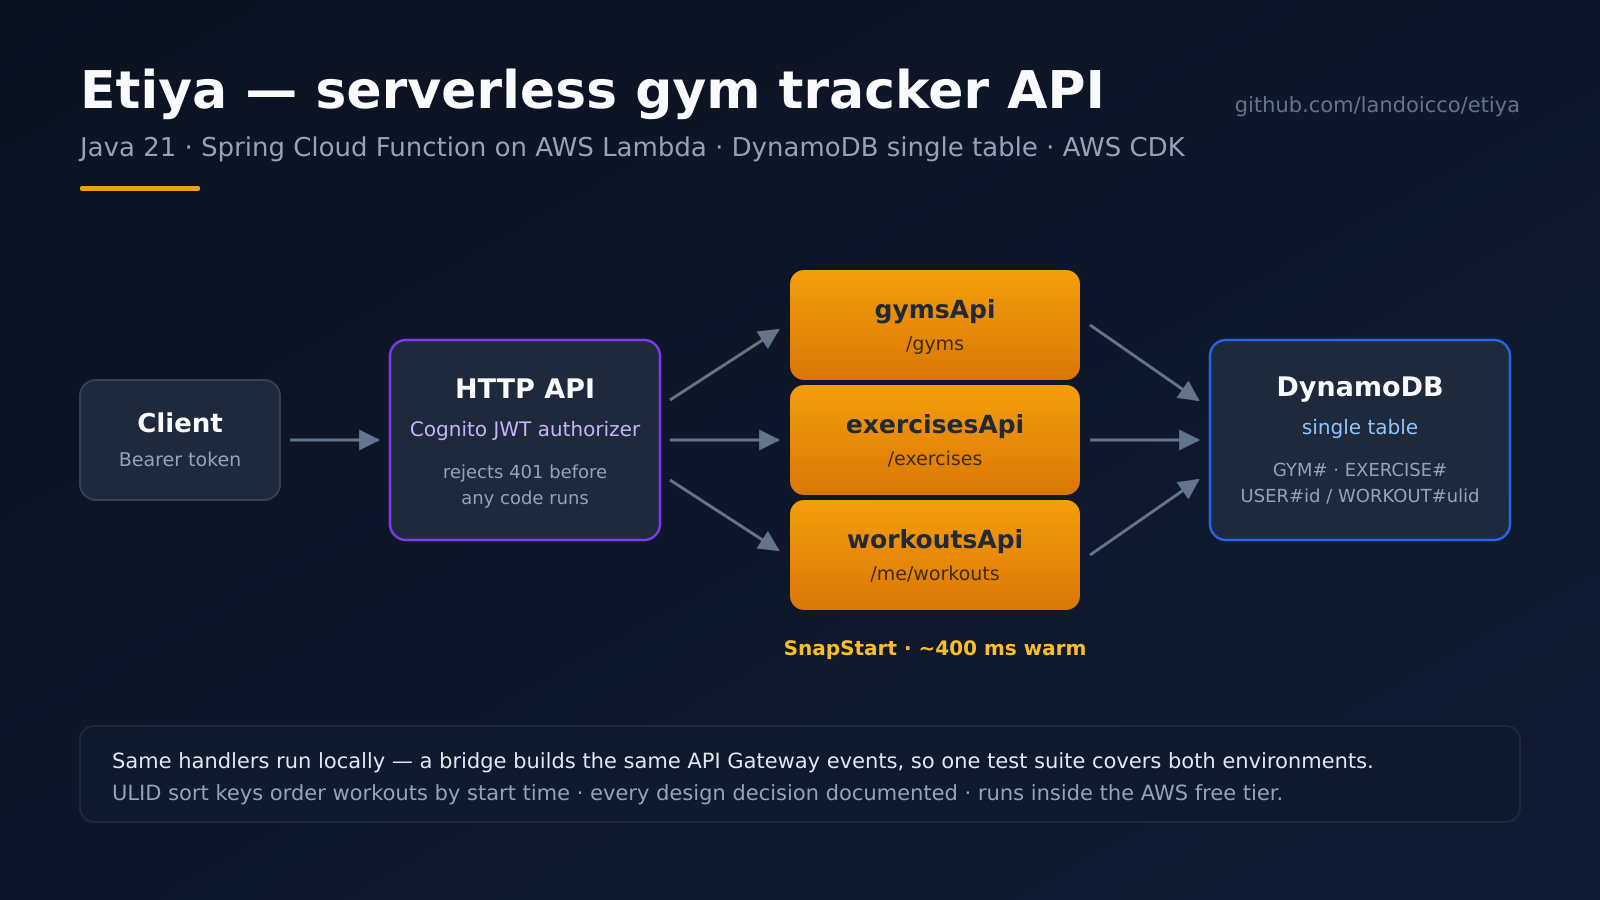
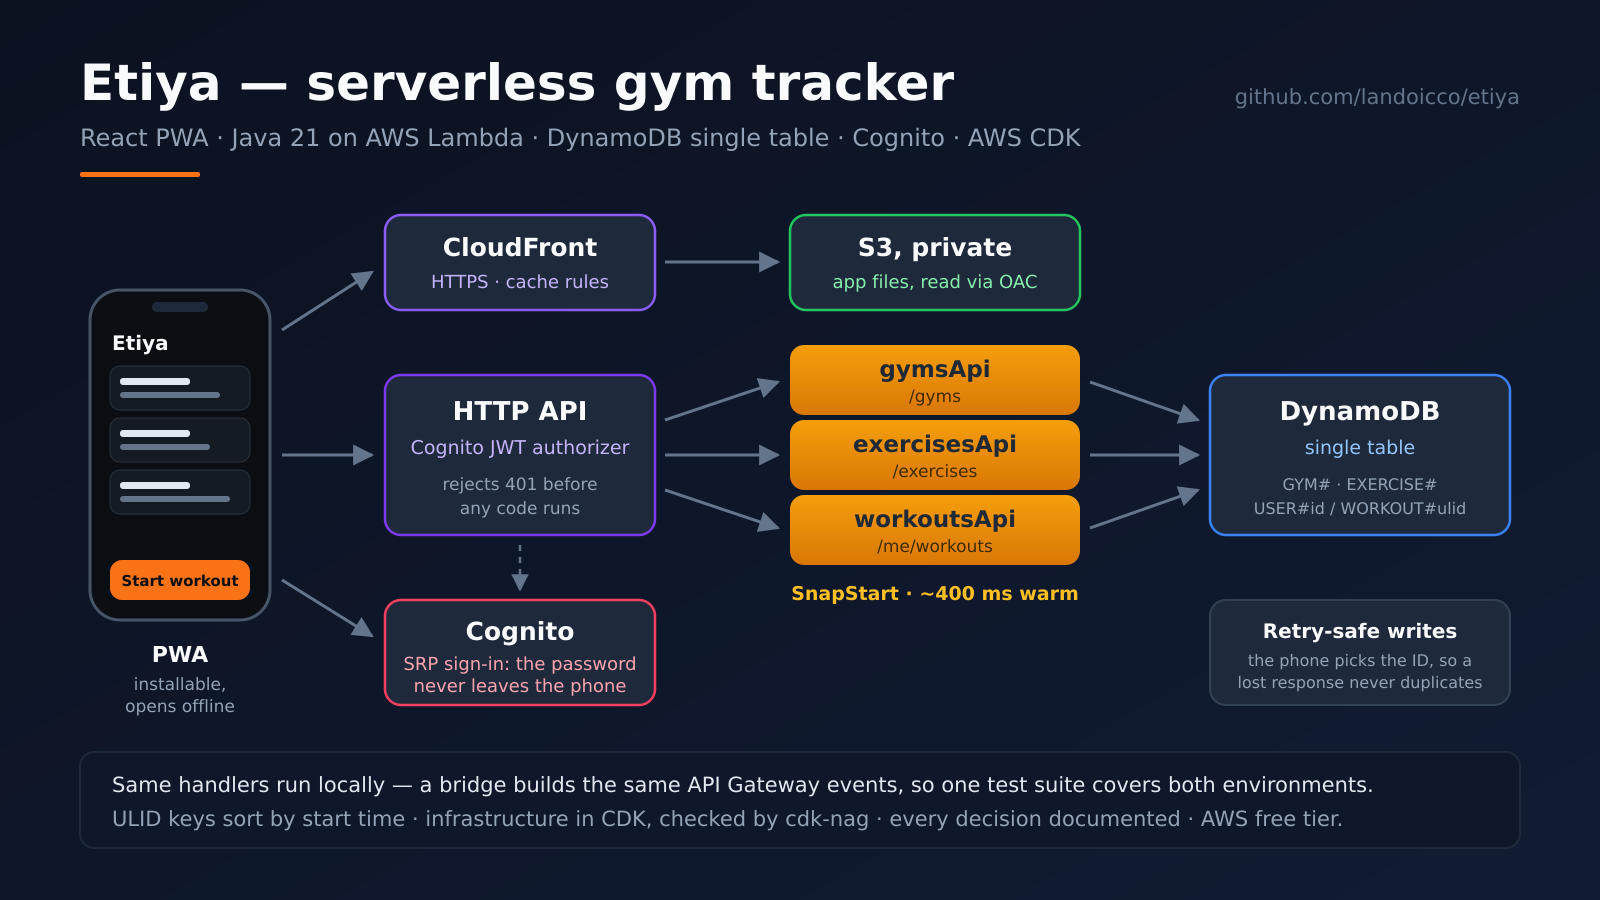
Docs explain retry-safe workout writes, social images updated  - API reference documents the optional id, 201 on the first attempt and 200 on a retry  - Data model shows how the client ID's random part is kept and its time stamped from startedAt  - Decisions cover why the ID is the idempotency key, 

diff --git a/docs/decisions.md b/docs/decisions.md
@@ -52,11 +52,17 @@ An earlier `aws/` package at the root was renamed: naming by provider broke the 
 
 See [the data model](data-model.md#workout-ids-are-ulids) for the mechanics. The short version: the ID is derived from `startedAt`, so one sort key serves both "get by ID" and "list by date", with no GSI and no timezone ambiguity.
 
+**Retries are made safe by the ID itself.** The app's offline queue sends a finished workout until it gets an answer, and a lost response would otherwise store it twice. The client generates a ULID once per workout and sends it on every attempt; the server keeps its random part, stamps the time from `startedAt`, and writes conditionally. A repeat gets `200` with the stored workout. Rejected alternatives:
+
+* **An `Idempotency-Key` header**, the Stripe approach: it needs a second item per request, with a TTL, to remember responses, when the workout's own ID can already be the key.
+* **`PUT /me/workouts/{id}`**, idempotent by HTTP semantics: a new route in `core` and `infra`, and the ID in the path would have to agree with `startedAt` in the body. Stamping the time on the server removes that coupling.
+* **Comparing the body on a repeat and answering `409` when it differs**: it only happens if the client reuses an ID for another workout, which is a bug in the client. The stored workout is returned as is.
+
 Both `startedAt` and `endedAt` are required because **the database only stores completed workouts**. A session in progress belongs on the client (localStorage or IndexedDB), which also makes the app usable in a gym with bad signal.
 
 ## Server-generated IDs and 409 on duplicates
 
-Catalog IDs are slugs derived from the payload, and any `id` in the request is ignored. Creation uses a conditional write, so registering the same gym twice returns `409` instead of silently overwriting the stored one.
+Catalog IDs are slugs derived from the payload, and any `id` in the request is ignored. Creation uses a conditional write, so registering the same gym twice returns `409` instead of silently overwriting the stored one. Workouts use the same conditional write, but a repeat is a retry rather than a conflict, so it returns the stored workout, [see above](#workout-ids-are-ulids-times-are-utc-instants).
 
 For gyms, the slug includes the optional branch and the city, so two locations of the same chain coexist. The city is part of the ID because branches of one chain can share a name across cities.
 
@@ -131,7 +137,6 @@ Deliberately postponed, with the trigger that would justify each:
 
 | Item | Do it when |
 |---|---|
-| Idempotency for workout writes (client-generated ULID, re-stamped with `startedAt`) | The frontend retries failed uploads |
 | Reserved concurrency per Lambda and a lower stage throttle | Before the API is shared with anyone |
 | Deploying the web app from CI, with an AWS role assumed through GitHub OIDC instead of stored keys, running the same `deploy.sh` | Deploying by hand becomes a chore, or someone else contributes |
 | A custom domain, which also allows TLS 1.2 as the minimum | The app is shared beyond a link on a profile |

diff --git a/docs/api.md b/docs/api.md
@@ -29,7 +29,7 @@ API Gateway validates it and passes the claims to the Lambda, which reads `sub` 
     "details": null
   }
   ```
-* **IDs are always generated by the server.** An `id` sent in a request body is ignored.
+* **IDs are generated by the server.** An `id` sent in a request body is ignored, except for workouts, where it makes retries safe (see below).
 
 | Status | When |
 |---|---|
@@ -77,6 +77,7 @@ Workouts always belong to the authenticated caller. A workout owned by somebody 
 ### `POST /me/workouts`
 ```json
 {
+  "id": "01KZ8BHKC0N761RDSJY0HMX246",
   "startedAt": "2026-07-31T18:30:00-06:00",
   "endedAt": "2026-07-31T19:45:00-06:00",
   "gymId": "golds-gym-sunset-st-los-angeles",
@@ -95,6 +96,8 @@ Workouts always belong to the authenticated caller. A workout owned by somebody 
 ```
 → `201` with the stored workout: a ULID `id`, the caller as `userId`, and both times normalized to UTC.
 
+* `id` is optional and makes the request **safe to retry**. A client that may send the same workout twice, like the app's offline queue, generates a [ULID](https://github.com/ulid/spec) once and sends it on every attempt. The first attempt gets `201`; any later one gets **`200` with the workout already stored**, and nothing is written again. Without `id`, the server generates one and every request creates a new workout. Anything that is not a ULID is a `400`.
+* The stored `id` is not the one sent: the server keeps its random part and replaces its time part with `startedAt`, see [the data model](data-model.md#workout-ids-are-ulids). The same `id` and `startedAt` always give the same stored `id`.
 * `gymId` is optional, but when present it must exist in the catalog, otherwise `404 GYM_NOT_FOUND`. The same applies to `exerciseCatalogItemId`.
 * Time rules live in [the data model](data-model.md#workout-times).
 
@@ -106,4 +109,4 @@ Returns one of the caller's workouts, or `404`.
 
 ## Not implemented yet
 
-`PUT` and `DELETE` for workouts, and request idempotency for retries. See [decisions](decisions.md#still-open).
+`PUT` and `DELETE` for workouts. See [decisions](decisions.md#still-open).

diff --git a/docs/testing.md b/docs/testing.md
@@ -16,7 +16,7 @@ cd core && mvn test
 | Test | What it pins down |
 |---|---|
 | `SlugsTest` | Accents, apostrophes and symbols, and that a partial search is a prefix of the full ID |
-| `WorkoutServiceTest` | Time normalization to UTC, the 12 hour and future limits, ULIDs sorting by start time, the owner coming from the token, page size limits |
+| `WorkoutServiceTest` | Time normalization to UTC, the 12 hour and future limits, ULIDs sorting by start time, client IDs keeping their random part and landing on the same ID when retried, the owner coming from the token, page size limits |
 | `TableSchemaFactoryTest` | `PK`/`SK` for each item type, and no key at all when a part is missing |
 | `WorkoutCursorsTest` | Cursors are URL-safe, and anything the API did not issue is rejected |
 
@@ -97,6 +97,6 @@ Every job must pass to merge into `main`, including on the pull requests **Depen
 
 ## What the integration suite covers
 
-Registration and retrieval for the three domains, prefix search, filtering by muscle group, slug normalization, pagination with cursors, and the error paths: validation, malformed JSON, unknown IDs, duplicates (`409`), unauthenticated requests, invalid `limit` and forged cursors.
+Registration and retrieval for the three domains, prefix search, filtering by muscle group, slug normalization, pagination with cursors, and the error paths: validation, malformed JSON, unknown IDs, duplicates (`409`), retried workouts (`200` with the stored one), unauthenticated requests, invalid `limit` and forged cursors.
 
-That is 34 requests locally and 30 against AWS, the difference being the four `local-only` tests.
+That is 37 requests locally and 33 against AWS, the difference being the four `local-only` tests.

diff --git a/docs/data-model.md b/docs/data-model.md
@@ -46,6 +46,21 @@ Because a ULID begins with its timestamp, sorting IDs sorts by start time. One k
 
 Date ranges (a calendar view, "this week") remain efficient: the client resolves the range in its own timezone and the query uses `SK BETWEEN` the minimum and maximum ULID for that range.
 
+### Client IDs make retries safe
+
+A client may send its own ULID, generated once per workout, so that retrying a lost request never stores a second copy. The server keeps only its **random part** and stamps the **time part from `startedAt`**:
+
+```
+client sends   01KZ9X7Q2M  N761RDSJY0HMX246
+                   │              │
+stored         01KZ8BHKC0  N761RDSJY0HMX246
+               └ startedAt ┘ └ kept as sent ┘
+```
+
+* The history keeps sorting by start time, whatever the phone's clock said, or whenever the ID was generated.
+* Every attempt maps to the same key, and the write is conditional (`attribute_not_exists`), so a retry never overwrites anything: it reads back the stored workout instead. That read is strongly consistent, so it finds a first attempt written milliseconds earlier. It costs one read unit instead of half, which the provisioned capacity absorbs at no extra charge.
+* The key is scoped to the caller's partition, `USER#<sub>`, so a chosen ID can only ever collide with the caller's own workouts.
+
 ## Workout times
 
 `startedAt` and `endedAt` are both **required**: only completed workouts are stored. A workout in progress is expected to live on the client until it is finished.

diff --git a/docs/images/README.md b/docs/images/README.md
@@ -3,12 +3,14 @@
 | File | Source | Referenced by |
 |---|---|---|
 | `architecture.png` | **Generated** from the CDK code with `cdk-dia` (see [deployment](../deployment.md)) | `docs/deployment.md` |
-| `social-flow.svg` / `.png` | **Hand-made**, for posts and slides outside this repo | Nothing |
+| `social-flow.svg` / `.png` | **Hand-made**: the request path from the phone to DynamoDB, for posts and slides outside this repo | Nothing |
+| `showcase.svg` / `.png` | **Hand-made**: the app's screens with its name and stack, as a cover image for posts and project pages | Nothing |
 
-The docs only reference diagrams that stay in sync on their own. `social-flow` is deliberately not used in the documentation: it is a summary drawn by hand, so it can go stale without making any guide wrong.
+The docs only reference diagrams that stay in sync on their own. The hand-made images are deliberately not used in the documentation: they are summaries drawn by hand, so they can go stale without making any guide wrong. The workouts shown in `showcase` are sample data.
 
-Re-render it after editing the SVG:
+Re-render them after editing an SVG:
 ```bash
-nix shell nixpkgs#librsvg --command rsvg-convert -w 1600 -h 900 \
-  docs/images/social-flow.svg -o docs/images/social-flow.png
+nix shell nixpkgs#librsvg --command sh -c '
+  rsvg-convert -w 1600 -h 900 docs/images/social-flow.svg -o docs/images/social-flow.png
+  rsvg-convert -w 1600 -h 900 docs/images/showcase.svg -o docs/images/showcase.png'
 ```
